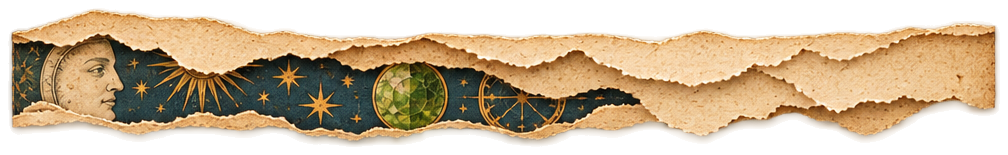
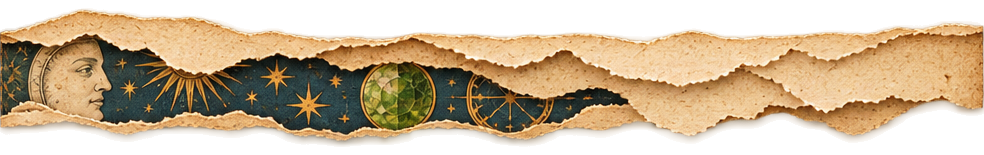
Redesign Visualize and Explore no-data onboarding

diff --git a/src/PeridotDatasetRequiredWorkspace.jsx b/src/PeridotDatasetRequiredWorkspace.jsx
@@ -10,28 +10,60 @@ export function PeridotDatasetRequiredWorkspace({
   onUseSampleData,
 }) {
   const isExplore = destination === 'explore';
-  const heading = isExplore ? 'Explore Your Data' : 'Visualize Your Data';
+  // Both no-data workspaces use the same editorial gateway. Only the
+  // destination-specific explanation and illustrated rupture differ.
   const description = isExplore
-    ? 'Peridot needs an active dataset before you can search records or inspect evidence.'
-    : 'Peridot needs an active dataset before you can create visualizations.';
+    ? 'To search records and inspect evidence, first upload your research data or choose a prepared sample on the Data page.'
+    : 'To explore maps, networks, timelines, and charts, first upload your research data or choose a prepared sample on the Data page.';
+  const tear = isExplore
+    ? '/assets/divider_tear_celestial.png'
+    : '/assets/divider_tear_illuminated.png';
 
+  // onOpenData navigates to Data onboarding; it does not launch the file chooser.
   return (
-    <section className="h-full overflow-auto bg-[var(--peridot-role-interface-app-background)] px-8 py-12 text-[var(--text-main)]">
-      <div className="mx-auto max-w-4xl">
-        <h1 className="[font-family:Georgia,'Palatino_Linotype','Book_Antiqua',Palatino,serif] text-[clamp(2.4rem,5vw,4.5rem)] font-bold leading-[0.98] tracking-[-0.045em] text-[var(--heading-text)]">
-          {heading}
+    <section
+      className="h-full overflow-auto text-[var(--text-main)]"
+      style={{
+        backgroundColor: '#f4e9d6',
+        backgroundImage: "url('/assets/base_parchment_2.png')",
+        backgroundPosition: 'center center',
+        backgroundSize: 'cover',
+        backgroundRepeat: 'no-repeat',
+      }}
+    >
+      <div className="mx-auto max-w-4xl px-8 pt-[clamp(2.25rem,5vh,3.8rem)]">
+        <h1 className="[font-family:Georgia,'Palatino_Linotype','Book_Antiqua',Palatino,serif] text-[clamp(2.6rem,5vw,4.5rem)] font-bold leading-[1.03] tracking-[-0.045em] text-[var(--heading-text)]">
+          No Dataset Active
         </h1>
-        <p className="mt-5 max-w-2xl text-base leading-7 text-[var(--text-main)]">
+        <p className="mt-5 max-w-2xl text-[1.5rem] leading-[1.35] text-[var(--text-main)]">
           {description}
         </p>
-        <div className="mt-8 flex flex-wrap gap-3">
-          <button type="button" className="peridot-button-primary" onClick={onOpenData}>
-            Upload Your Data
-          </button>
-          <button type="button" className="peridot-button-primary" onClick={onUseSampleData}>
-            Choose Sample Data
+        <div className="mt-8">
+          <button
+            type="button"
+            className="peridot-button-primary"
+            onClick={onOpenData}
+            style={{
+              minHeight: '3.75rem',
+              padding: '0.95rem 2.25rem',
+              fontSize: '1.125rem',
+              fontWeight: 700,
+              boxShadow: '0 5px 15px rgba(28, 42, 34, 0.20)',
+            }}
+          >
+            Go to Data <span aria-hidden="true" className="ml-3">→</span>
           </button>
         </div>
+      </div>
+
+      {/* Full-width decorative rupture marks the unavailable research workspace. */}
+      <div className="mt-12 w-full" aria-hidden="true">
+        <img
+          src={tear}
+          alt=""
+          className="block h-auto w-full max-w-none select-none"
+          draggable="false"
+        />
       </div>
     </section>
   );
